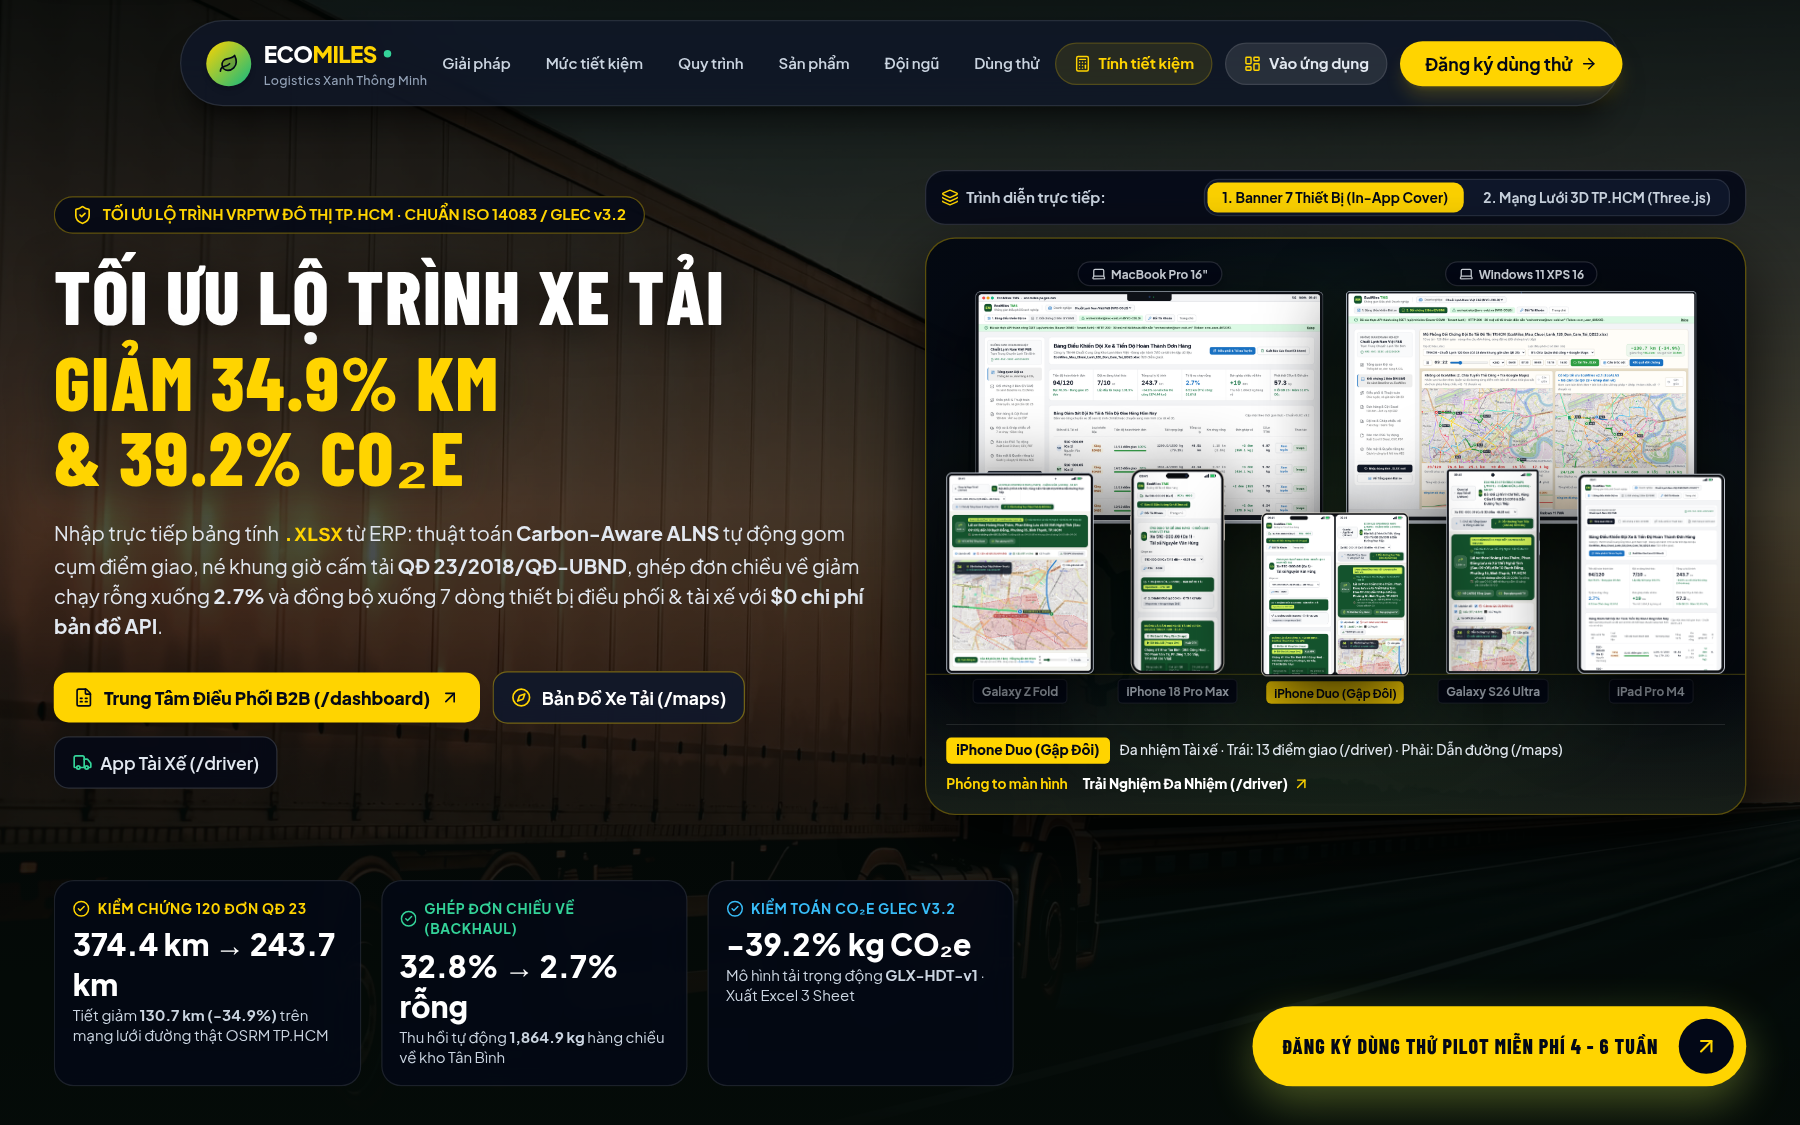
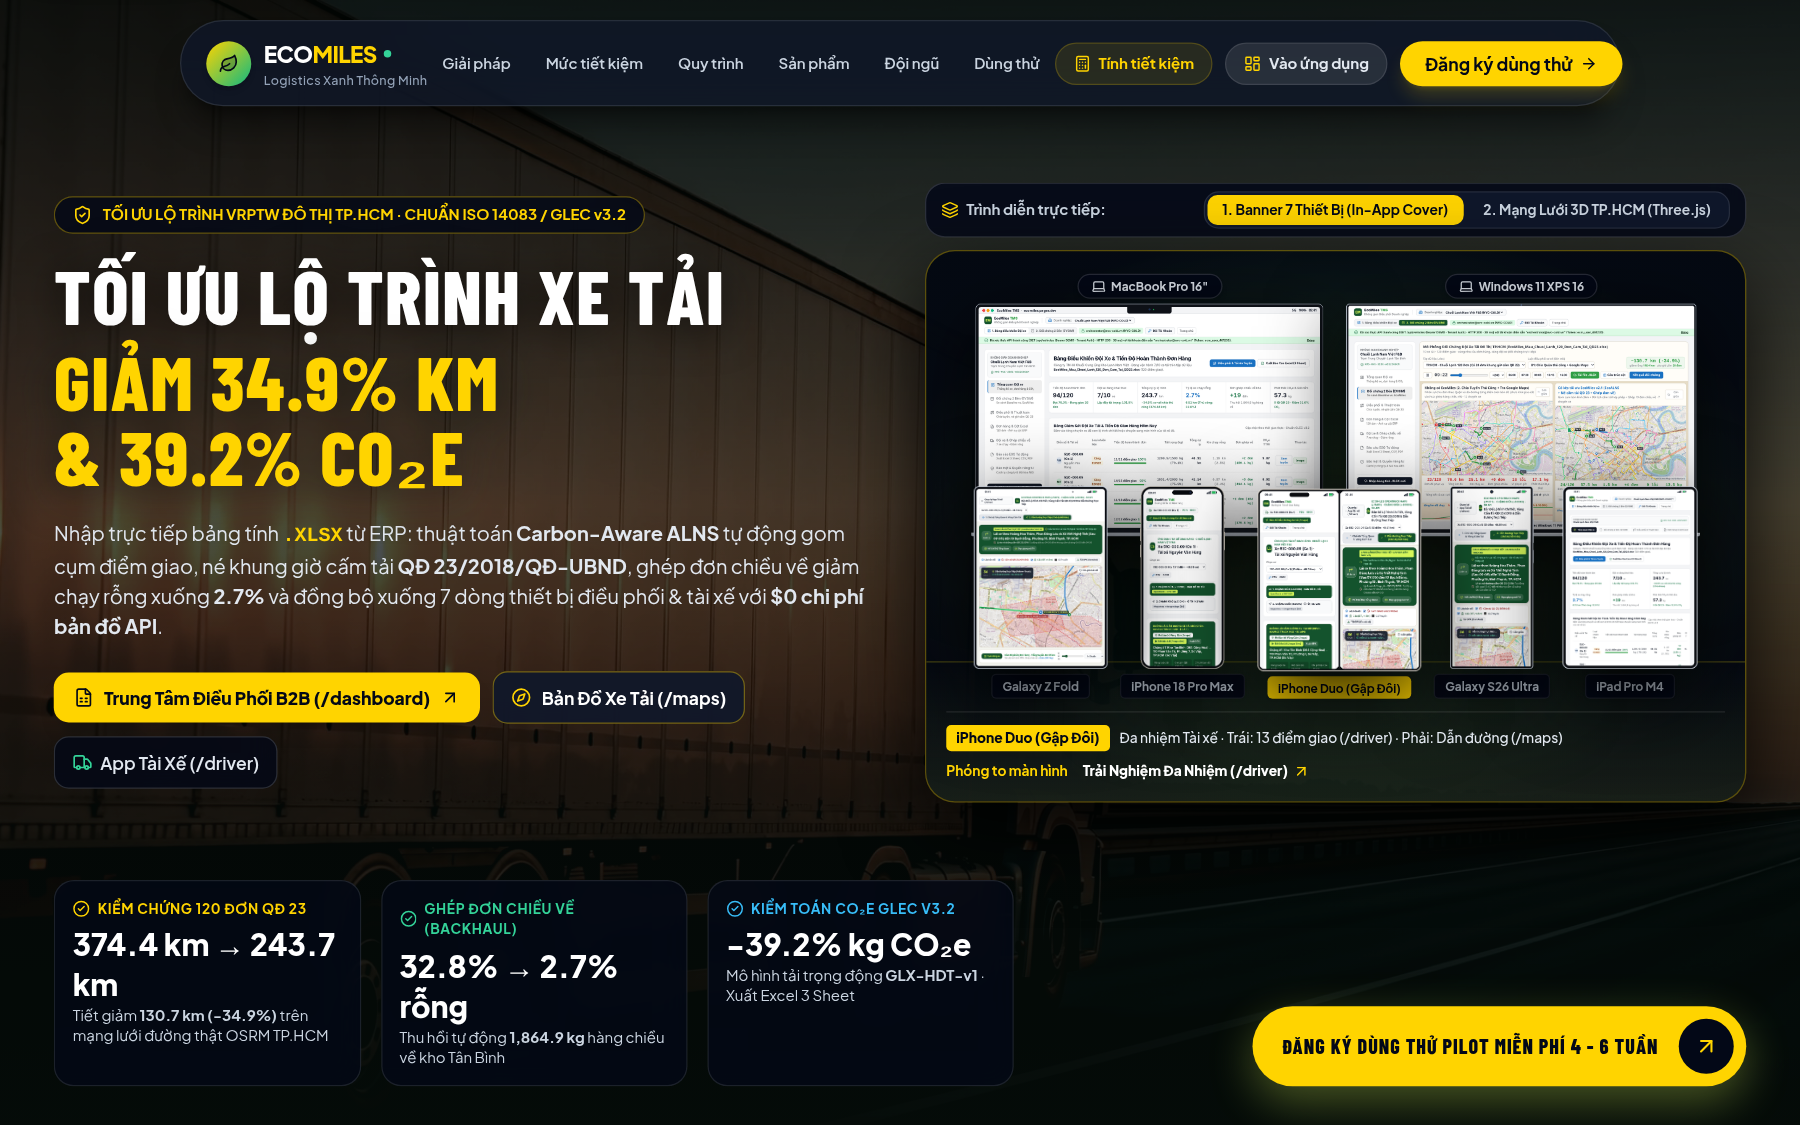
feat(phase7-react-loop): enforce uniform physical height across all 7 devices on desktop & mobile and add Pitch-Deck asset suite card to B2B portal (CR: CR-20261027-001)

Changed region(s): [[0.4978, 0.1244, 0.9644, 0.7467], [0.3733, 0.1556, 0.4978, 0.28]]

diff --git a/apps/landing/src/components/DriverAndDispatcherShowcase.tsx b/apps/landing/src/components/DriverAndDispatcherShowcase.tsx
@@ -406,102 +406,102 @@ export const DriverAndDispatcherShowcase: React.FC = () => {
                     </div>
 
                     {/* Tier 2 & 3 (Mid Handover Tablets + Foreground Field Phones): 5 Interactive Devices */}
-                    <div className="grid grid-cols-2 sm:grid-cols-5 gap-2.5 sm:gap-3 items-end pt-1 border-t border-white/10">
-                      <div className="gsap-beat-handover">
+                    <div className="flex flex-wrap sm:flex-nowrap items-end justify-center gap-3 sm:gap-4 pt-2 border-t border-white/10">
+                      <div className="gsap-beat-handover shrink-0">
                         <motion.button
                           type="button"
                           onClick={() => setSelectedDeviceId('galaxy_zfold')}
                           whileHover={{ y: -10, scale: 1.05 }}
                           whileTap={{ scale: 0.98 }}
                           transition={{ type: 'spring', stiffness: 380, damping: 24 }}
-                          className="group w-full text-center cursor-pointer focus:outline-none"
+                          className="group flex flex-col items-center text-center cursor-pointer focus:outline-none"
                         >
                           <img
                             src="/pitch-deck-screenshots/24_mockup_samsung_zfold_tablet_cockpit.png"
                             alt="Samsung Galaxy Z Fold Unfolded Truck Map Cockpit"
-                            className="w-full h-auto max-h-[185px] object-contain mx-auto drop-shadow-[0_14px_28px_rgba(0,0,0,0.8)]"
+                            className="h-[135px] sm:h-[172px] w-auto object-contain mx-auto drop-shadow-[0_14px_28px_rgba(0,0,0,0.8)]"
                           />
-                          <span className="mt-1.5 inline-block px-2 py-0.5 rounded bg-slate-900/90 border border-ecomiles-lime/35 text-[9.5px] font-bold text-ecomiles-lime group-hover:bg-ecomiles-lime group-hover:text-slate-950 transition-colors">
+                          <span className="mt-1.5 inline-block px-2 py-0.5 rounded bg-slate-900/90 border border-ecomiles-lime/35 text-[9.5px] font-bold text-ecomiles-lime group-hover:bg-ecomiles-lime group-hover:text-slate-950 transition-colors whitespace-nowrap">
                             3. Galaxy Z Fold
                           </span>
                         </motion.button>
                       </div>
 
-                      <div className="gsap-beat-field">
+                      <div className="gsap-beat-field shrink-0">
                         <motion.button
                           type="button"
                           onClick={() => setSelectedDeviceId('iphone_18_pro_max')}
                           whileHover={{ y: -10, scale: 1.06 }}
                           whileTap={{ scale: 0.98 }}
                           transition={{ type: 'spring', stiffness: 380, damping: 24 }}
-                          className="group w-full text-center cursor-pointer focus:outline-none"
+                          className="group flex flex-col items-center text-center cursor-pointer focus:outline-none"
                         >
                           <img
                             src="/pitch-deck-screenshots/21_mockup_iphone_18_pro_max_driver.png"
                             alt="iPhone 18 Pro Max Driver App"
-                            className="w-full h-auto max-h-[175px] object-contain mx-auto drop-shadow-[0_14px_28px_rgba(0,0,0,0.8)]"
+                            className="h-[135px] sm:h-[172px] w-auto object-contain mx-auto drop-shadow-[0_14px_28px_rgba(0,0,0,0.8)]"
                           />
-                          <span className="mt-1.5 inline-block px-2 py-0.5 rounded bg-slate-900/90 border border-ecomiles-lime/35 text-[9.5px] font-bold text-ecomiles-lime group-hover:bg-ecomiles-lime group-hover:text-slate-950 transition-colors">
+                          <span className="mt-1.5 inline-block px-2 py-0.5 rounded bg-slate-900/90 border border-ecomiles-lime/35 text-[9.5px] font-bold text-ecomiles-lime group-hover:bg-ecomiles-lime group-hover:text-slate-950 transition-colors whitespace-nowrap">
                             4. iPhone 18 Pro Max
                           </span>
                         </motion.button>
                       </div>
 
-                      <div className="gsap-beat-field col-span-2 sm:col-span-1">
+                      <div className="gsap-beat-field shrink-0">
                         <motion.button
                           type="button"
                           onClick={() => setSelectedDeviceId('iphone_duo')}
                           whileHover={{ y: -10, scale: 1.06 }}
                           whileTap={{ scale: 0.98 }}
                           transition={{ type: 'spring', stiffness: 380, damping: 24 }}
-                          className="group w-full text-center cursor-pointer focus:outline-none"
+                          className="group flex flex-col items-center text-center cursor-pointer focus:outline-none"
                         >
                           <img
                             src="/pitch-deck-screenshots/23_mockup_iphone_duo_dual_screen.png"
                             alt="iPhone Duo Dual-Screen Foldable"
-                            className="w-full h-auto max-h-[185px] object-contain mx-auto drop-shadow-[0_14px_28px_rgba(0,0,0,0.85)]"
+                            className="h-[135px] sm:h-[172px] w-auto object-contain mx-auto drop-shadow-[0_14px_28px_rgba(0,0,0,0.85)]"
                           />
-                          <span className="mt-1.5 inline-block px-2 py-0.5 rounded bg-ecomiles-lime text-slate-950 text-[9.5px] font-extrabold">
+                          <span className="mt-1.5 inline-block px-2 py-0.5 rounded bg-ecomiles-lime text-slate-950 text-[9.5px] font-extrabold whitespace-nowrap">
                             5. iPhone Duo (Gập Đôi)
                           </span>
                         </motion.button>
                       </div>
 
-                      <div className="gsap-beat-field">
+                      <div className="gsap-beat-field shrink-0">
                         <motion.button
                           type="button"
                           onClick={() => setSelectedDeviceId('galaxy_s26_ultra')}
                           whileHover={{ y: -10, scale: 1.06 }}
                           whileTap={{ scale: 0.98 }}
                           transition={{ type: 'spring', stiffness: 380, damping: 24 }}
-                          className="group w-full text-center cursor-pointer focus:outline-none"
+                          className="group flex flex-col items-center text-center cursor-pointer focus:outline-none"
                         >
                           <img
                             src="/pitch-deck-screenshots/22_mockup_samsung_s26_ultra_maps_live.png"
                             alt="Samsung Galaxy S26 Ultra Live Truck Navigation"
-                            className="w-full h-auto max-h-[175px] object-contain mx-auto drop-shadow-[0_14px_28px_rgba(0,0,0,0.8)]"
+                            className="h-[135px] sm:h-[172px] w-auto object-contain mx-auto drop-shadow-[0_14px_28px_rgba(0,0,0,0.8)]"
                           />
-                          <span className="mt-1.5 inline-block px-2 py-0.5 rounded bg-slate-900/90 border border-ecomiles-lime/35 text-[9.5px] font-bold text-ecomiles-lime group-hover:bg-ecomiles-lime group-hover:text-slate-950 transition-colors">
+                          <span className="mt-1.5 inline-block px-2 py-0.5 rounded bg-slate-900/90 border border-ecomiles-lime/35 text-[9.5px] font-bold text-ecomiles-lime group-hover:bg-ecomiles-lime group-hover:text-slate-950 transition-colors whitespace-nowrap">
                             6. Galaxy S26 Ultra
                           </span>
                         </motion.button>
                       </div>
 
-                      <div className="gsap-beat-handover">
+                      <div className="gsap-beat-handover shrink-0">
                         <motion.button
                           type="button"
                           onClick={() => setSelectedDeviceId('ipad_pro')}
                           whileHover={{ y: -10, scale: 1.05 }}
                           whileTap={{ scale: 0.98 }}
                           transition={{ type: 'spring', stiffness: 380, damping: 24 }}
-                          className="group w-full text-center cursor-pointer focus:outline-none"
+                          className="group flex flex-col items-center text-center cursor-pointer focus:outline-none"
                         >
                           <img
                             src="/pitch-deck-screenshots/25_mockup_ipad_pro_tablet_tms.png"
                             alt="iPad Pro M4 Tablet Fleet Dashboard"
-                            className="w-full h-auto max-h-[185px] object-contain mx-auto drop-shadow-[0_14px_28px_rgba(0,0,0,0.8)]"
+                            className="h-[135px] sm:h-[172px] w-auto object-contain mx-auto drop-shadow-[0_14px_28px_rgba(0,0,0,0.8)]"
                           />
-                          <span className="mt-1.5 inline-block px-2 py-0.5 rounded bg-slate-900/90 border border-ecomiles-lime/35 text-[9.5px] font-bold text-ecomiles-lime group-hover:bg-ecomiles-lime group-hover:text-slate-950 transition-colors">
+                          <span className="mt-1.5 inline-block px-2 py-0.5 rounded bg-slate-900/90 border border-ecomiles-lime/35 text-[9.5px] font-bold text-ecomiles-lime group-hover:bg-ecomiles-lime group-hover:text-slate-950 transition-colors whitespace-nowrap">
                             7. iPad Pro M4
                           </span>
                         </motion.button>

diff --git a/apps/landing/src/islands/EcoMilesPortal.tsx b/apps/landing/src/islands/EcoMilesPortal.tsx
@@ -2043,6 +2043,55 @@ function EnterpriseWorkspace({ defaultRole }: { defaultRole: AppRole }) {
                     </table>
                   </div>
                 </div>
+
+                {/* Multi-Device Pitch Deck & Hardware Mockup Suite Card */}
+                <div className="bg-white border border-[#e5e7eb] rounded-xl p-5 space-y-4">
+                  <div className="flex flex-wrap items-center justify-between gap-3">
+                    <div>
+                      <h2 className="text-[15px] font-bold text-[#111827]">
+                        Bộ Ảnh Chụp Màn Hình &amp; Mockup 7 Thiết Bị Cho Hồ Sơ Thuyết Trình (Pitch Deck Suite)
+                      </h2>
+                      <p className="text-[12px] text-[#5f6368]">
+                        Tải trực tiếp ảnh bìa 2400x1260 và 4 slide tổng hợp đa thiết bị (MacBook Pro 16&quot;, Windows 11 XPS 16, Galaxy Z Fold, iPad Pro M4, iPhone Duo, iPhone 18 Pro Max, Galaxy S26 Ultra):
+                      </p>
+                    </div>
+                    <a
+                      href="/pitch-deck-screenshots/00_ecomiles_flagship_cover_banner.png"
+                      download="00_ecomiles_flagship_cover_banner.png"
+                      className="px-3.5 py-2 rounded-lg bg-[#14532d] hover:bg-[#0f3f22] text-[#d6f65a] text-xs font-extrabold"
+                    >
+                      Tải Ảnh Bìa 7 Thiết Bị (2400x1260 PNG)
+                    </a>
+                  </div>
+                  <div className="grid grid-cols-1 md:grid-cols-2 gap-4">
+                    <a
+                      href="/pitch-deck-screenshots/00_ecomiles_clean_devices_hero_stage.png"
+                      target="_blank"
+                      rel="noreferrer"
+                      className="block rounded-xl overflow-hidden border border-[#d1d5db] bg-[#060d14] p-2"
+                    >
+                      <img
+                        src="/pitch-deck-screenshots/00_ecomiles_clean_devices_hero_stage.png"
+                        alt="7-Device Hardware Stage"
+                        className="w-full h-auto rounded-lg"
+                        loading="lazy"
+                      />
+                    </a>
+                    <a
+                      href="/pitch-deck-screenshots/18_slide_composite_driver_and_maps_mobile_tablet.png"
+                      target="_blank"
+                      rel="noreferrer"
+                      className="block rounded-xl overflow-hidden border border-[#d1d5db] bg-[#f3f4ef] p-2"
+                    >
+                      <img
+                        src="/pitch-deck-screenshots/18_slide_composite_driver_and_maps_mobile_tablet.png"
+                        alt="Mobile and Foldable Fleet Lineup"
+                        className="w-full h-auto rounded-lg"
+                        loading="lazy"
+                      />
+                    </a>
+                  </div>
+                </div>
               </div>
             )}
 

diff --git a/apps/landing/src/components/HeroMultiDeviceStage.tsx b/apps/landing/src/components/HeroMultiDeviceStage.tsx
@@ -181,7 +181,7 @@ export const HeroMultiDeviceStage: React.FC = () => {
         </motion.div>
 
         {/* Plane 2 (Mid Wings, z-20) & Plane 3 (Foreground Trio, z-30) Occluding Lower 22% of Laptops */}
-        <div className="relative z-20 -mt-8 sm:-mt-11 grid grid-cols-5 gap-1.5 sm:gap-2 items-end">
+        <div className="relative z-20 -mt-7 sm:-mt-10 flex flex-wrap sm:flex-nowrap items-end justify-center gap-2 sm:gap-2.5">
           {bottomRowDevices.map((dev) => {
             const isFront = dev.plane === 'front';
             const isDuo = dev.id === 'iphone_duo';
@@ -192,26 +192,24 @@ export const HeroMultiDeviceStage: React.FC = () => {
                   x: isFront ? frontX : midX,
                   y: isFront ? frontY : midY,
                 }}
-                className={isDuo ? 'col-span-1 relative z-30' : isFront ? 'col-span-1 relative z-25' : 'col-span-1 relative z-20'}
+                className={isDuo ? 'relative z-30 shrink-0' : isFront ? 'relative z-25 shrink-0' : 'relative z-20 shrink-0'}
               >
                 <motion.button
                   type="button"
                   onMouseEnter={() => setHoveredDevice(dev)}
                   onClick={() => setInspectedDevice(dev)}
-                  whileHover={{ y: -10, scale: 1.08, zIndex: 40 }}
+                  whileHover={{ y: -10, scale: 1.07, zIndex: 40 }}
                   whileTap={{ scale: 0.97 }}
                   transition={{ type: 'spring', stiffness: 400, damping: 24 }}
-                  className="group w-full text-center cursor-pointer focus:outline-none"
+                  className="group flex flex-col items-center text-center cursor-pointer focus:outline-none"
                 >
                   <img
                     src={dev.imgSrc}
                     alt={dev.name}
-                    className={`w-full h-auto ${
-                      isDuo ? 'max-h-[155px] sm:max-h-[175px]' : 'max-h-[145px] sm:max-h-[164px]'
-                    } object-contain mx-auto drop-shadow-[0_20px_34px_rgba(0,0,0,0.95)]`}
+                    className="h-[112px] sm:h-[146px] w-auto object-contain mx-auto drop-shadow-[0_20px_34px_rgba(0,0,0,0.95)]"
                   />
                   <span
-                    className={`mt-1 inline-block px-1.5 py-0.5 rounded text-[8.5px] sm:text-[9.5px] font-bold truncate max-w-full transition-colors shadow-sm ${
+                    className={`mt-1 inline-block px-2 py-0.5 rounded text-[9px] sm:text-[9.5px] font-bold whitespace-nowrap transition-colors shadow-sm ${
                       hoveredDevice.id === dev.id
                         ? 'bg-ecomiles-lime text-slate-950'
                         : 'bg-slate-950/90 text-slate-300 border border-white/10 group-hover:text-ecomiles-lime'
